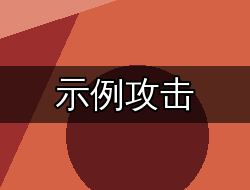
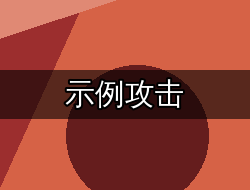
Make placeholder card art follow keywords in the card name
Claude-Session: https://claude.ai/code/session_01DJC8mN8PMdG5KHGoRDtEYv

Changed region(s): [[0.0, 0.3947, 1.0, 0.6579], [0.0, 0.3421, 1.0, 0.3684]]

diff --git a/content/RitsuCharacterModTemplate/tools/card_placeholders.py b/content/RitsuCharacterModTemplate/tools/card_placeholders.py
@@ -10,11 +10,13 @@ Usage (from the project folder):
 
 Cards are read from <Mod>Code/Cards/*.cs, names from <Mod>/localization/<lang>/cards.json,
 and images are written to <Mod>/images/cards/<ClassName>.png (250x190, 250x351 for ancient cards).
-The color depends on the card type: Attack red, Skill green, Power blue, Status gray, Curse purple.
+The color depends on keywords in the name (fire, ice, shield, ... see THEMES, which also draw a small
+symbol), otherwise on the card type: Attack red, Skill green, Power blue, Status gray, Curse purple.
 """
 import argparse
 import hashlib
 import json
+import math
 import re
 import sys
 from pathlib import Path
@@ -35,6 +37,24 @@ TYPE_COLORS = {
     "Curse": ((72, 40, 92), (128, 70, 150)),
 }
 DEFAULT_COLORS = ((90, 90, 90), (150, 150, 150))
+
+# Name keywords -> theme. The first theme with a matching keyword wins; cards without a match
+# fall back to the card type colors. Add your own words here.
+THEMES = {
+    "fire": ("火 焰 炎 燃 烈 灼 烧 炽 fire flame burn blaze ember inferno scorch", ((176, 64, 28), (244, 160, 52))),
+    "ice": ("冰 寒 霜 雪 冻 凛 ice frost freeze snow chill cold glacier", ((38, 98, 150), (140, 210, 240))),
+    "thunder": ("雷 电 霆 闪 击穿 thunder lightning shock spark bolt storm", ((72, 58, 140), (244, 212, 70))),
+    "shield": ("盾 护 御 壁 守 坚 挡 铁 shield guard block defend fortify bulwark wall", ((60, 84, 110), (150, 180, 206))),
+    "poison": ("毒 瘴 腐 雾 蚀 poison toxic venom plague rot", ((70, 60, 120), (150, 200, 70))),
+    "blood": ("血 嗜 狂 饮 blood bleed rage frenzy fury", ((110, 16, 28), (214, 52, 62))),
+    "wind": ("风 疾 迅 旋 飞 步 wind gale swift dash whirl", ((40, 120, 124), (150, 224, 210))),
+    "heal": ("愈 生 复 净 疗 春 heal regen restore cleanse life renew", ((40, 128, 90), (180, 240, 170))),
+    "shadow": ("影 暗 夜 幽 魂 厄 诅 shadow dark night ghost soul curse doom", ((44, 30, 70), (140, 100, 190))),
+    "magic": ("魔 法 力 涌 气 聚 能 magic mana energy surge arcane charge", ((120, 44, 140), (240, 130, 220))),
+    "star": ("星 光 圣 辉 日 月 star light holy radiant sun moon", ((60, 70, 140), (250, 226, 130))),
+    "blade": ("斩 刺 剑 刀 刃 锋 割 slash stab blade sword cut strike pierce", ((72, 78, 90), (210, 220, 232))),
+    "fist": ("拳 打 碎 锤 砸 重 punch smash crush hammer bash", ((120, 76, 40), (230, 168, 96))),
+}
 
 # Fonts tried in order. Pass --font to use another one.
 FONT_CANDIDATES = [
@@ -103,9 +123,66 @@ def lerp(a, b, t):
     return tuple(int(x + (y - x) * t) for x, y in zip(a, b))
 
 
+def find_theme(title):
+    for name, (words, colors) in THEMES.items():
+        if any(w in title.lower() for w in words.split()):
+            return name, colors
+    return None, None
+
+
+def draw_glyph(d, theme, cx, cy, r, color, bg):
+    """Very simple flat symbol for a theme, centered on (cx, cy) with radius r."""
+    if theme == "fire":
+        d.polygon([(cx, cy - r), (cx + r * .7, cy + r * .1), (cx + r * .45, cy + r), (cx - r * .45, cy + r), (cx - r * .7, cy + r * .1)], fill=color)
+    elif theme == "ice":
+        for dx, dy in [(0, 1), (.87, .5), (.87, -.5)]:
+            d.line([(cx - dx * r, cy - dy * r), (cx + dx * r, cy + dy * r)], fill=color, width=max(3, int(r * .16)))
+    elif theme == "thunder":
+        d.polygon([(cx + r * .2, cy - r), (cx - r * .6, cy + r * .1), (cx - r * .05, cy + r * .1), (cx - r * .3, cy + r), (cx + r * .6, cy - r * .2), (cx + r * .05, cy - r * .2)], fill=color)
+    elif theme == "shield":
+        d.polygon([(cx - r * .8, cy - r * .8), (cx + r * .8, cy - r * .8), (cx + r * .8, cy), (cx, cy + r), (cx - r * .8, cy)], fill=color)
+    elif theme == "poison":
+        for dx, dy, k in [(-.45, .25, .5), (.4, .35, .4), (0, -.3, .65)]:
+            d.ellipse([cx + dx * r - k * r, cy + dy * r - k * r, cx + dx * r + k * r, cy + dy * r + k * r], fill=color)
+    elif theme == "blood":
+        d.ellipse([cx - r * .7, cy - r * .35, cx + r * .7, cy + r * .95], fill=color)
+        d.polygon([(cx, cy - r), (cx + r * .6, cy), (cx - r * .6, cy)], fill=color)
+    elif theme == "wind":
+        for i, k in enumerate((-.55, 0, .55)):
+            d.arc([cx - r + i * r * .15, cy + k * r - r * .5, cx + r, cy + k * r + r * .5], 200, 360, fill=color, width=max(3, int(r * .16)))
+    elif theme == "heal":
+        w = r * .32
+        d.rectangle([cx - w, cy - r, cx + w, cy + r], fill=color)
+        d.rectangle([cx - r, cy - w, cx + r, cy + w], fill=color)
+    elif theme == "shadow":
+        d.ellipse([cx - r, cy - r, cx + r, cy + r], fill=color)
+        d.ellipse([cx - r * .35, cy - r * .95, cx + r * 1.15, cy + r * .55], fill=bg)
+    elif theme == "magic":
+        d.polygon([(cx, cy - r), (cx + r * .6, cy), (cx, cy + r), (cx - r * .6, cy)], fill=color)
+        d.ellipse([cx - r, cy - r * .2, cx + r, cy + r * .2], fill=color)
+    elif theme == "star":
+        pts = []
+        for i in range(10):
+            a = -math.pi / 2 + i * math.pi / 5
+            k = r if i % 2 == 0 else r * .42
+            pts.append((cx + k * math.cos(a), cy + k * math.sin(a)))
+        d.polygon(pts, fill=color)
+    elif theme == "blade":
+        d.polygon([(cx + r, cy - r), (cx + r * .75, cy - r * 1.05), (cx - r * .8, cy + r * .5), (cx - r * .5, cy + r * .8)], fill=color)
+        d.line([(cx - r * .9, cy + r * .1), (cx - r * .1, cy + r * .9)], fill=color, width=max(3, int(r * .2)))
+    elif theme == "fist":
+        d.rounded_rectangle([cx - r * .8, cy - r * .6, cx + r * .8, cy + r * .6], radius=int(r * .3), fill=color)
+        for i in range(4):
+            x0 = cx - r * .8 + i * r * .4
+            d.rectangle([x0 + 2, cy - r * .85, x0 + r * .36, cy - r * .4], fill=color)
+
+
 def draw_card(title, card_type, size, font_path, seed):
     width, height = size
     base, accent = TYPE_COLORS.get(card_type, DEFAULT_COLORS)
+    theme, theme_colors = find_theme(title)
+    if theme:
+        base, accent = theme_colors
     rnd = hashlib.md5(seed.encode("utf-8")).digest()
     dark = lerp(base, (0, 0, 0), 0.35)
     light = lerp(accent, (255, 255, 255), 0.25)
@@ -122,9 +199,15 @@ def draw_card(title, card_type, size, font_path, seed):
     cx, cy = width * (rnd[4] / 255), height * (0.6 + rnd[5] / 255 * 0.4)
     d.ellipse([cx - r, cy - r, cx + r, cy + r], fill=dark)
 
-    # Name band in the middle.
-    band_h = int(height * 0.3) if height < width * 1.2 else int(height * 0.18)
-    top = (height - band_h) // 2
+    if theme:
+        r = min(width, height) * 0.22
+        bright = sum(accent) / 3 > 170
+        color = lerp(base, (0, 0, 0), 0.45) if bright else lerp(accent, (255, 255, 255), 0.6)
+        draw_glyph(d, theme, width / 2, height * 0.3, r, color, accent)
+
+    # Name band: lower part when there is a symbol above it, otherwise the middle.
+    band_h = int(height * 0.26) if height < width * 1.2 else int(height * 0.16)
+    top = int(height * 0.6) if theme else (height - band_h) // 2
     band = Image.new("RGBA", (width, band_h), (0, 0, 0, 150))
     img.paste(band, (0, top), band)
 

diff --git a/content/RitsuContentModTemplate/tools/card_placeholders.py b/content/RitsuContentModTemplate/tools/card_placeholders.py
@@ -10,11 +10,13 @@ Usage (from the project folder):
 
 Cards are read from <Mod>Code/Cards/*.cs, names from <Mod>/localization/<lang>/cards.json,
 and images are written to <Mod>/images/cards/<ClassName>.png (250x190, 250x351 for ancient cards).
-The color depends on the card type: Attack red, Skill green, Power blue, Status gray, Curse purple.
+The color depends on keywords in the name (fire, ice, shield, ... see THEMES, which also draw a small
+symbol), otherwise on the card type: Attack red, Skill green, Power blue, Status gray, Curse purple.
 """
 import argparse
 import hashlib
 import json
+import math
 import re
 import sys
 from pathlib import Path
@@ -35,6 +37,24 @@ TYPE_COLORS = {
     "Curse": ((72, 40, 92), (128, 70, 150)),
 }
 DEFAULT_COLORS = ((90, 90, 90), (150, 150, 150))
+
+# Name keywords -> theme. The first theme with a matching keyword wins; cards without a match
+# fall back to the card type colors. Add your own words here.
+THEMES = {
+    "fire": ("火 焰 炎 燃 烈 灼 烧 炽 fire flame burn blaze ember inferno scorch", ((176, 64, 28), (244, 160, 52))),
+    "ice": ("冰 寒 霜 雪 冻 凛 ice frost freeze snow chill cold glacier", ((38, 98, 150), (140, 210, 240))),
+    "thunder": ("雷 电 霆 闪 击穿 thunder lightning shock spark bolt storm", ((72, 58, 140), (244, 212, 70))),
+    "shield": ("盾 护 御 壁 守 坚 挡 铁 shield guard block defend fortify bulwark wall", ((60, 84, 110), (150, 180, 206))),
+    "poison": ("毒 瘴 腐 雾 蚀 poison toxic venom plague rot", ((70, 60, 120), (150, 200, 70))),
+    "blood": ("血 嗜 狂 饮 blood bleed rage frenzy fury", ((110, 16, 28), (214, 52, 62))),
+    "wind": ("风 疾 迅 旋 飞 步 wind gale swift dash whirl", ((40, 120, 124), (150, 224, 210))),
+    "heal": ("愈 生 复 净 疗 春 heal regen restore cleanse life renew", ((40, 128, 90), (180, 240, 170))),
+    "shadow": ("影 暗 夜 幽 魂 厄 诅 shadow dark night ghost soul curse doom", ((44, 30, 70), (140, 100, 190))),
+    "magic": ("魔 法 力 涌 气 聚 能 magic mana energy surge arcane charge", ((120, 44, 140), (240, 130, 220))),
+    "star": ("星 光 圣 辉 日 月 star light holy radiant sun moon", ((60, 70, 140), (250, 226, 130))),
+    "blade": ("斩 刺 剑 刀 刃 锋 割 slash stab blade sword cut strike pierce", ((72, 78, 90), (210, 220, 232))),
+    "fist": ("拳 打 碎 锤 砸 重 punch smash crush hammer bash", ((120, 76, 40), (230, 168, 96))),
+}
 
 # Fonts tried in order. Pass --font to use another one.
 FONT_CANDIDATES = [
@@ -103,9 +123,66 @@ def lerp(a, b, t):
     return tuple(int(x + (y - x) * t) for x, y in zip(a, b))
 
 
+def find_theme(title):
+    for name, (words, colors) in THEMES.items():
+        if any(w in title.lower() for w in words.split()):
+            return name, colors
+    return None, None
+
+
+def draw_glyph(d, theme, cx, cy, r, color, bg):
+    """Very simple flat symbol for a theme, centered on (cx, cy) with radius r."""
+    if theme == "fire":
+        d.polygon([(cx, cy - r), (cx + r * .7, cy + r * .1), (cx + r * .45, cy + r), (cx - r * .45, cy + r), (cx - r * .7, cy + r * .1)], fill=color)
+    elif theme == "ice":
+        for dx, dy in [(0, 1), (.87, .5), (.87, -.5)]:
+            d.line([(cx - dx * r, cy - dy * r), (cx + dx * r, cy + dy * r)], fill=color, width=max(3, int(r * .16)))
+    elif theme == "thunder":
+        d.polygon([(cx + r * .2, cy - r), (cx - r * .6, cy + r * .1), (cx - r * .05, cy + r * .1), (cx - r * .3, cy + r), (cx + r * .6, cy - r * .2), (cx + r * .05, cy - r * .2)], fill=color)
+    elif theme == "shield":
+        d.polygon([(cx - r * .8, cy - r * .8), (cx + r * .8, cy - r * .8), (cx + r * .8, cy), (cx, cy + r), (cx - r * .8, cy)], fill=color)
+    elif theme == "poison":
+        for dx, dy, k in [(-.45, .25, .5), (.4, .35, .4), (0, -.3, .65)]:
+            d.ellipse([cx + dx * r - k * r, cy + dy * r - k * r, cx + dx * r + k * r, cy + dy * r + k * r], fill=color)
+    elif theme == "blood":
+        d.ellipse([cx - r * .7, cy - r * .35, cx + r * .7, cy + r * .95], fill=color)
+        d.polygon([(cx, cy - r), (cx + r * .6, cy), (cx - r * .6, cy)], fill=color)
+    elif theme == "wind":
+        for i, k in enumerate((-.55, 0, .55)):
+            d.arc([cx - r + i * r * .15, cy + k * r - r * .5, cx + r, cy + k * r + r * .5], 200, 360, fill=color, width=max(3, int(r * .16)))
+    elif theme == "heal":
+        w = r * .32
+        d.rectangle([cx - w, cy - r, cx + w, cy + r], fill=color)
+        d.rectangle([cx - r, cy - w, cx + r, cy + w], fill=color)
+    elif theme == "shadow":
+        d.ellipse([cx - r, cy - r, cx + r, cy + r], fill=color)
+        d.ellipse([cx - r * .35, cy - r * .95, cx + r * 1.15, cy + r * .55], fill=bg)
+    elif theme == "magic":
+        d.polygon([(cx, cy - r), (cx + r * .6, cy), (cx, cy + r), (cx - r * .6, cy)], fill=color)
+        d.ellipse([cx - r, cy - r * .2, cx + r, cy + r * .2], fill=color)
+    elif theme == "star":
+        pts = []
+        for i in range(10):
+            a = -math.pi / 2 + i * math.pi / 5
+            k = r if i % 2 == 0 else r * .42
+            pts.append((cx + k * math.cos(a), cy + k * math.sin(a)))
+        d.polygon(pts, fill=color)
+    elif theme == "blade":
+        d.polygon([(cx + r, cy - r), (cx + r * .75, cy - r * 1.05), (cx - r * .8, cy + r * .5), (cx - r * .5, cy + r * .8)], fill=color)
+        d.line([(cx - r * .9, cy + r * .1), (cx - r * .1, cy + r * .9)], fill=color, width=max(3, int(r * .2)))
+    elif theme == "fist":
+        d.rounded_rectangle([cx - r * .8, cy - r * .6, cx + r * .8, cy + r * .6], radius=int(r * .3), fill=color)
+        for i in range(4):
+            x0 = cx - r * .8 + i * r * .4
+            d.rectangle([x0 + 2, cy - r * .85, x0 + r * .36, cy - r * .4], fill=color)
+
+
 def draw_card(title, card_type, size, font_path, seed):
     width, height = size
     base, accent = TYPE_COLORS.get(card_type, DEFAULT_COLORS)
+    theme, theme_colors = find_theme(title)
+    if theme:
+        base, accent = theme_colors
     rnd = hashlib.md5(seed.encode("utf-8")).digest()
     dark = lerp(base, (0, 0, 0), 0.35)
     light = lerp(accent, (255, 255, 255), 0.25)
@@ -122,9 +199,15 @@ def draw_card(title, card_type, size, font_path, seed):
     cx, cy = width * (rnd[4] / 255), height * (0.6 + rnd[5] / 255 * 0.4)
     d.ellipse([cx - r, cy - r, cx + r, cy + r], fill=dark)
 
-    # Name band in the middle.
-    band_h = int(height * 0.3) if height < width * 1.2 else int(height * 0.18)
-    top = (height - band_h) // 2
+    if theme:
+        r = min(width, height) * 0.22
+        bright = sum(accent) / 3 > 170
+        color = lerp(base, (0, 0, 0), 0.45) if bright else lerp(accent, (255, 255, 255), 0.6)
+        draw_glyph(d, theme, width / 2, height * 0.3, r, color, accent)
+
+    # Name band: lower part when there is a symbol above it, otherwise the middle.
+    band_h = int(height * 0.26) if height < width * 1.2 else int(height * 0.16)
+    top = int(height * 0.6) if theme else (height - band_h) // 2
     band = Image.new("RGBA", (width, band_h), (0, 0, 0, 150))
     img.paste(band, (0, top), band)
 

diff --git a/content/RitsuCharacterModTemplate/README.md b/content/RitsuCharacterModTemplate/README.md
@@ -80,7 +80,7 @@ Entry 会写进存档，发布后不要再改类名；确实要改名时用 `[Re
 | 药水 | `RitsuChar/images/potions/<类名>.png`、`outline/<类名>.png` |
 | 角色 UI | `RitsuChar/images/charui/` |
 
-新加卡牌后可以运行 `python tools/card_placeholders.py`（需要 `pip install pillow`）批量生成占位卡图：按卡牌类型配色的大色块加卡名（默认取 `zhs` 本地化，`--lang eng` 用英文名）。只生成还没有图片的卡，`--force` 会覆盖全部。
+新加卡牌后可以运行 `python tools/card_placeholders.py`（需要 `pip install pillow`）批量生成占位卡图：按卡名关键词（火、冰、盾、毒等，见脚本里的 `THEMES`）或卡牌类型配色的大色块，加一个简单符号和卡名（默认取 `zhs` 本地化，`--lang eng` 用英文名）。只生成还没有图片的卡，`--force` 会覆盖全部。
 
 角色的战斗模型、能量表盘、商店/篝火场景等暂时借用铁甲战士（`PlaceholderCharacterId`），在 `RitsuCharCharacter.AssetProfile` 里换成自己的资源。
 

diff --git a/content/RitsuContentModTemplate/README.md b/content/RitsuContentModTemplate/README.md
@@ -72,7 +72,7 @@ Entry 会写进存档，发布后不要再改类名；确实要改名时用 `[Re
 | 遗物 | `RitsuContent/images/relics/<类名>.png`、`<类名>_outline.png`、`big/<类名>.png` |
 | 能力 | `RitsuContent/images/powers/<类名>.png`、`big/<类名>.png` |
 
-新加卡牌后可以运行 `python tools/card_placeholders.py`（需要 `pip install pillow`）批量生成占位卡图：按卡牌类型配色的大色块加卡名（默认取 `zhs` 本地化，`--lang eng` 用英文名）。只生成还没有图片的卡，`--force` 会覆盖全部。
+新加卡牌后可以运行 `python tools/card_placeholders.py`（需要 `pip install pillow`）批量生成占位卡图：按卡名关键词（火、冰、盾、毒等，见脚本里的 `THEMES`）或卡牌类型配色的大色块，加一个简单符号和卡名（默认取 `zhs` 本地化，`--lang eng` 用英文名）。只生成还没有图片的卡，`--force` 会覆盖全部。
 
 ### 游戏版本
 
